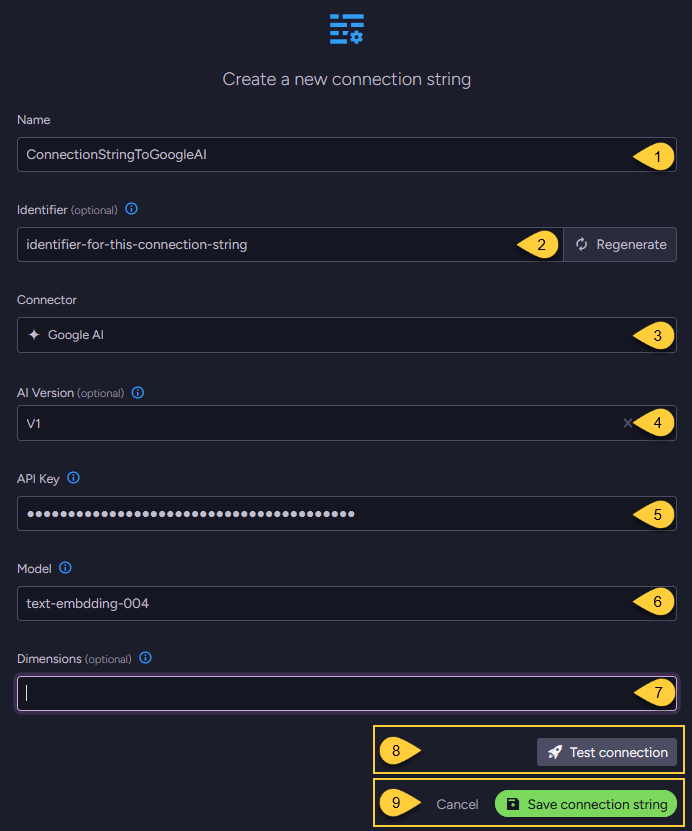
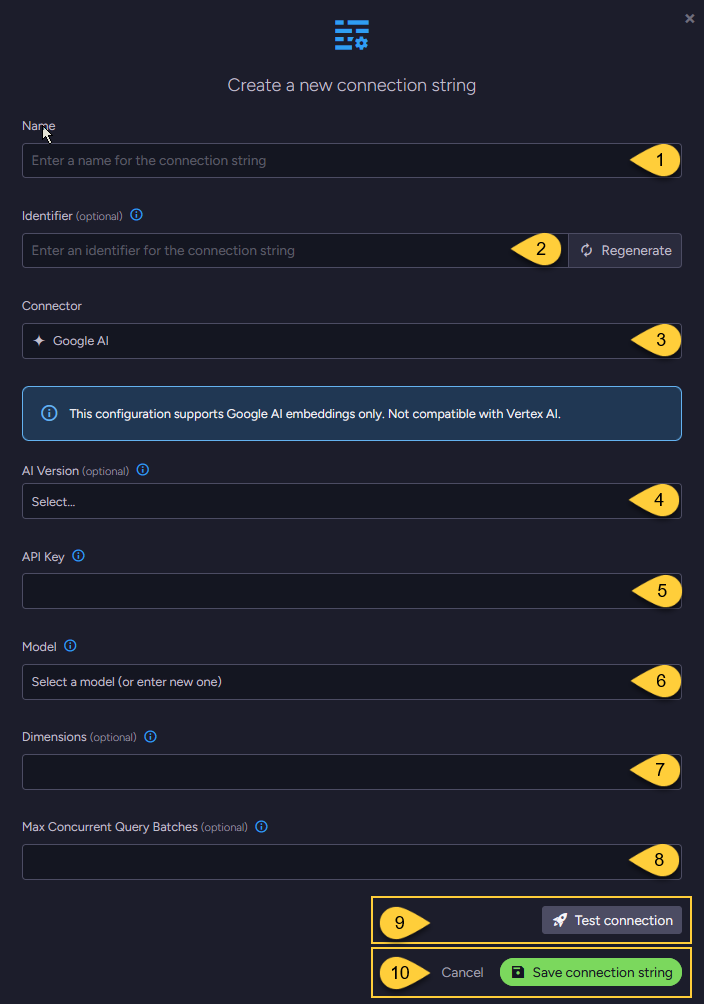
RDoc-3286 AI Integration: Update connection strings articles

diff --git a/Documentation/7.0/Samples/csharp/Raven.Documentation.Samples/AiIntegration/ConnectionStrings/ConnectionStrings.cs b/Documentation/7.0/Samples/csharp/Raven.Documentation.Samples/AiIntegration/ConnectionStrings/ConnectionStrings.cs
@@ -27,6 +27,10 @@ public class CreateConnectionStrings
                     deploymentName: "your-deployment-name")
             };
             
+            // Optionally, override the default maximum number of query embedding batches
+            // that can be processed concurrently 
+            connectionString.AzureOpenAiSettings.EmbeddingsMaxConcurrentBatches = 10;
+            
             // Deploy the connection string to the server
             var operation = new PutConnectionStringOperation<AiConnectionString>(connectionString);
             var putConnectionStringResult = store.Maintenance.Send(operation);
@@ -49,6 +53,10 @@ public class CreateConnectionStrings
                     model: "text-embedding-004",
                     aiVersion: GoogleAIVersion.V1)
             };
+            
+            // Optionally, override the default maximum number of query embedding batches
+            // that can be processed concurrently 
+            connectionString.GoogleSettings.EmbeddingsMaxConcurrentBatches = 10;
             
             // Deploy the connection string to the server
             var operation = new PutConnectionStringOperation<AiConnectionString>(connectionString);
@@ -73,6 +81,10 @@ public class CreateConnectionStrings
                     model: "sentence-transformers/all-MiniLM-L6-v2")
             };
             
+            // Optionally, override the default maximum number of query embedding batches
+            // that can be processed concurrently 
+            connectionString.HuggingFaceSettings.EmbeddingsMaxConcurrentBatches = 10;
+            
             // Deploy the connection string to the server
             var operation = new PutConnectionStringOperation<AiConnectionString>(connectionString);
             var putConnectionStringResult = store.Maintenance.Send(operation);
@@ -94,6 +106,10 @@ public class CreateConnectionStrings
                     uri: "http://localhost:11434/",
                     model: "mxbai-embed-large")
             };
+            
+            // Optionally, override the default maximum number of query embedding batches
+            // that can be processed concurrently 
+            connectionString.OllamaSettings.EmbeddingsMaxConcurrentBatches = 10;
             
             // Deploy the connection string to the server
             var operation = new PutConnectionStringOperation<AiConnectionString>(connectionString);
@@ -118,6 +134,10 @@ public class CreateConnectionStrings
                     model: "text-embedding-3-small")
             };
             
+            // Optionally, override the default maximum number of query embedding batches
+            // that can be processed concurrently 
+            connectionString.OpenAiSettings.EmbeddingsMaxConcurrentBatches = 10;
+            
             // Deploy the connection string to the server
             var operation = new PutConnectionStringOperation<AiConnectionString>(connectionString);
             var putConnectionStringResult = store.Maintenance.Send(operation);
@@ -141,6 +161,10 @@ public class CreateConnectionStrings
                     model: "mistral-embed")
             };
             
+            // Optionally, override the default maximum number of query embedding batches
+            // that can be processed concurrently 
+            connectionString.MistralAiSettings.EmbeddingsMaxConcurrentBatches = 10;
+            
             // Deploy the connection string to the server
             var operation = new PutConnectionStringOperation<AiConnectionString>(connectionString);
             var putConnectionStringResult = store.Maintenance.Send(operation);
@@ -163,6 +187,10 @@ public class CreateConnectionStrings
                 EmbeddedSettings = new EmbeddedSettings()
             };
             
+            // Optionally, override the default maximum number of query embedding batches
+            // that can be processed concurrently 
+            connectionString.EmbeddedSettings.EmbeddingsMaxConcurrentBatches = 10;
+            
             // Deploy the connection string to the server
             var operation = new PutConnectionStringOperation<AiConnectionString>(connectionString);
             var putConnectionStringResult = store.Maintenance.Send(operation);
@@ -180,13 +208,18 @@ public class AiConnectionString
     public AzureOpenAiSettings AzureOpenAiSettings { get; set; }
 }
 
-public class AzureOpenAiSettings
+public class AzureOpenAiSettings : AbstractAiSettings
 {
     public string ApiKey { get; set; }
     public string Endpoint { get; set; }
     public string Model { get; set; }
     public string DeploymentName { get; set; }
     public int? Dimensions { get; set; }
+}
+
+public class AbstractAiSettings
+{
+    public int? EmbeddingsMaxConcurrentBatches { get; set; }
 }
 #endregion
 
@@ -198,7 +231,7 @@ public class AiConnectionString
     public GoogleSettings GoogleSettings { get; set; }
 }
 
-public class GoogleSettings
+public class GoogleSettings : AbstractAiSettings
 {
     public string ApiKey { get; set; }
     public string Model { get; set; }
@@ -211,6 +244,11 @@ public enum GoogleAIVersion
     V1, // Represents the "v1" version of the Google AI API
     V1_Beta // Represents the "v1beta" version of the Google AI API
 }
+
+public class AbstractAiSettings
+{
+    public int? EmbeddingsMaxConcurrentBatches { get; set; }
+}
 #endregion
 
 #region hugging_face_settings
@@ -221,11 +259,16 @@ public class AiConnectionString
     public HuggingFaceSettings HuggingFaceSettings { get; set; }
 }
 
-public class HuggingFaceSettings
+public class HuggingFaceSettings : AbstractAiSettings
 {
     public string ApiKey { get; set; }
     public string Endpoint { get; set; }
     public string Model { get; set; }
+}
+
+public class AbstractAiSettings
+{
+    public int? EmbeddingsMaxConcurrentBatches { get; set; }
 }
 #endregion
 
@@ -237,10 +280,15 @@ public class AiConnectionString
     public OllamaSettings OllamaSettings { get; set; }
 }
 
-public class OllamaSettings
+public class OllamaSettings : AbstractAiSettings
 {
     public string Uri { get; set; }
     public string Model { get; set; }
+}
+
+public class AbstractAiSettings
+{
+    public int? EmbeddingsMaxConcurrentBatches { get; set; }
 }
 #endregion
 
@@ -252,7 +300,7 @@ public class AiConnectionString
     public OpenAiSettings OpenAiSettings { get; set; }
 }
 
-public class OpenAiSettings
+public class OpenAiSettings : AbstractAiSettings
 {
     public string ApiKey { get; set; }
     public string Endpoint { get; set; }
@@ -260,6 +308,11 @@ public class OpenAiSettings
     public int? Dimensions { get; set; }
     public string OrganizationId { get; set; }
     public string ProjectId { get; set; }
+}
+
+public class AbstractAiSettings
+{
+    public int? EmbeddingsMaxConcurrentBatches { get; set; }
 }
 #endregion
 
@@ -271,11 +324,16 @@ public class AiConnectionString
     public MistralAiSettings MistralAiSettings { get; set; }
 }
 
-public class MistralAiSettings
+public class MistralAiSettings : AbstractAiSettings
 {
     public string ApiKey { get; set; }
     public string Endpoint { get; set; }
     public string Model { get; set; }
+}
+
+public class AbstractAiSettings
+{
+    public int? EmbeddingsMaxConcurrentBatches { get; set; }
 }
 #endregion
 
@@ -285,6 +343,15 @@ public class AiConnectionString
     public string Name { get; set; }
     public string Identifier { get; set; }
     public EmbeddedSettings EmbeddedSettings { get; set; }
+}
+
+public class EmbeddedSettings : AbstractAiSettings
+{
+}
+
+public class AbstractAiSettings
+{
+    public int? EmbeddingsMaxConcurrentBatches { get; set; }
 }
 #endregion
 */

diff --git a/Documentation/7.0/Samples/csharp/Raven.Documentation.Samples/AiIntegration/GeneratingEmbeddings/CreateEmbeddingsGenerationTask.cs b/Documentation/7.0/Samples/csharp/Raven.Documentation.Samples/AiIntegration/GeneratingEmbeddings/CreateEmbeddingsGenerationTask.cs
@@ -1,5 +1,7 @@
-using System.Threading.Tasks;
+using System;
+using System.Threading.Tasks;
 using Raven.Client.Documents;
+using Raven.Client.Documents.Indexes.Vector;
 using Raven.Client.Documents.Operations.AI;
 using Raven.Client.Documents.Operations.ConnectionStrings;
 
